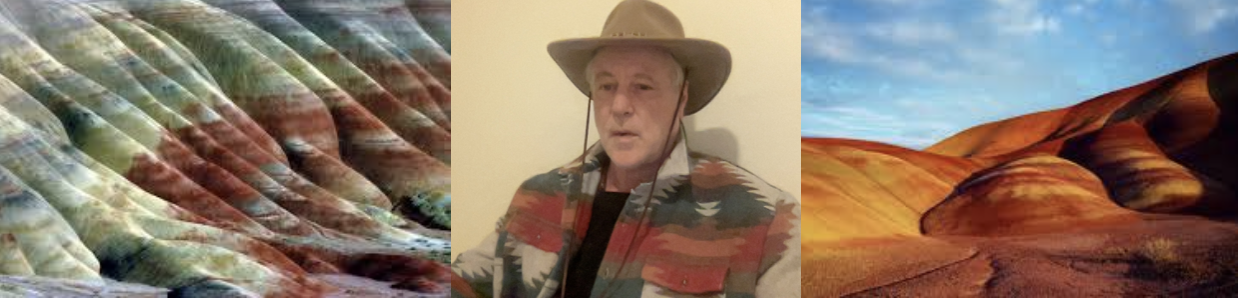
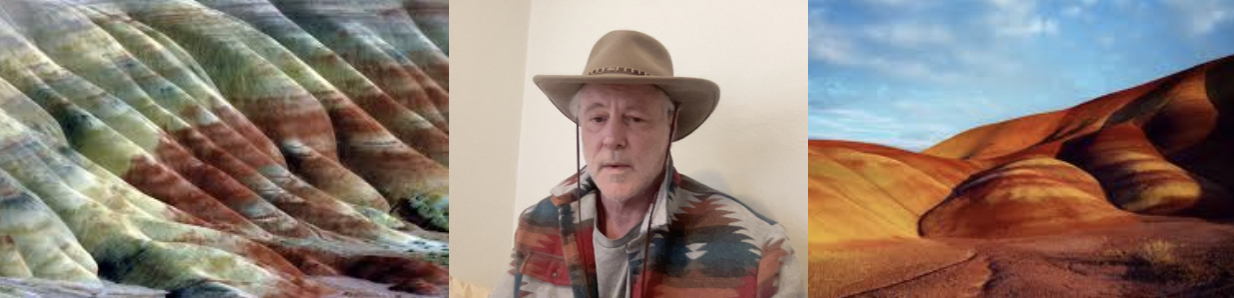
Add files via upload

diff --git a/about.html b/about.html
@@ -70,7 +70,7 @@ text-align: center;
 <p style="text-align:left;">
 </p>
 <p></p>
-<p><img src="June_11_2026.jpg" alt="ian" width="200"></p>
+<p><img src="June_14_2026.jpg" alt="ian" width="200"></p>
 
 
 